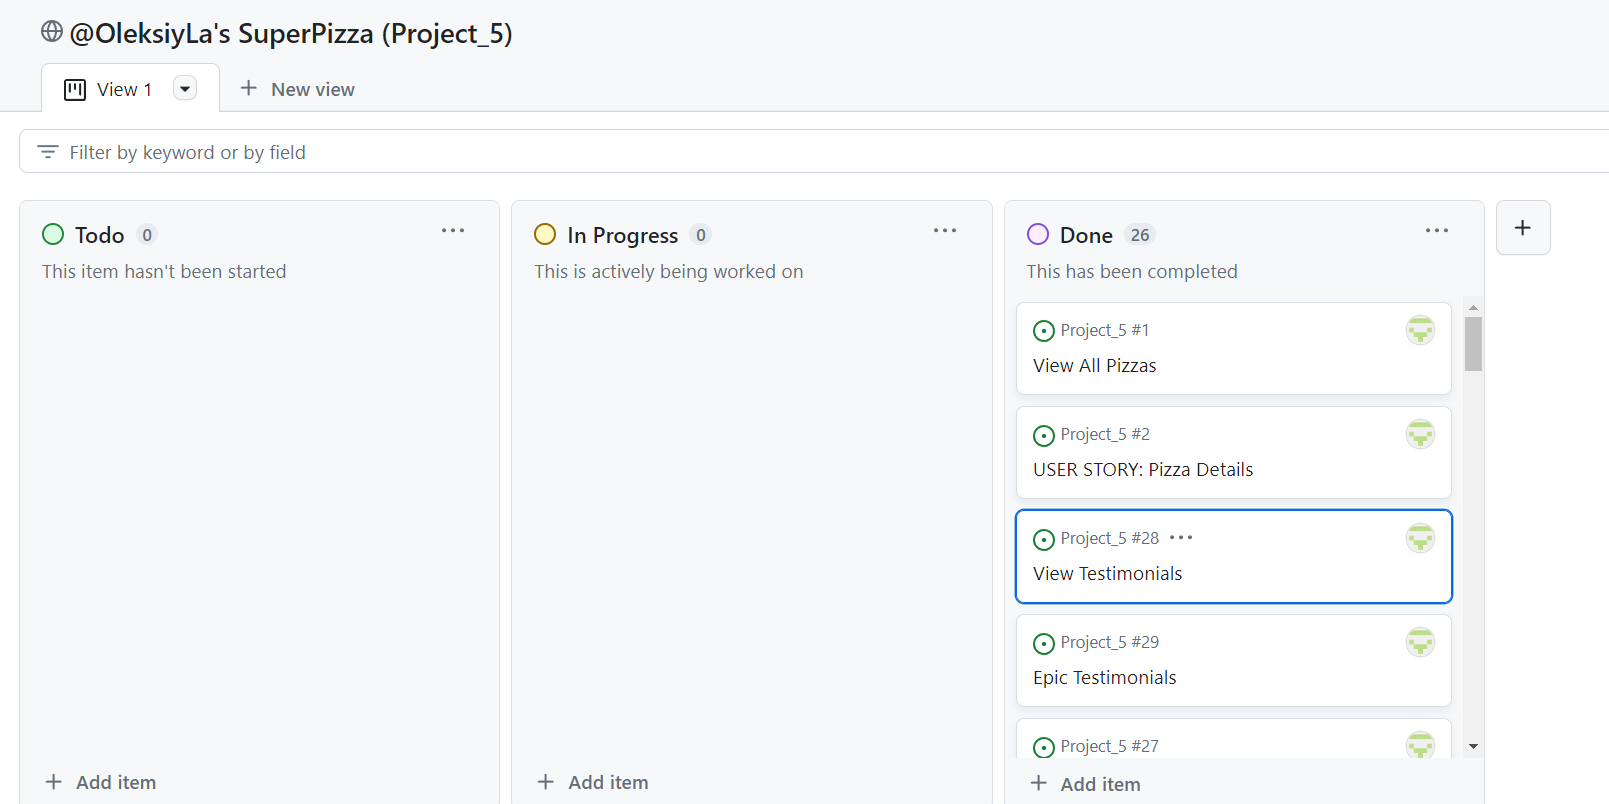
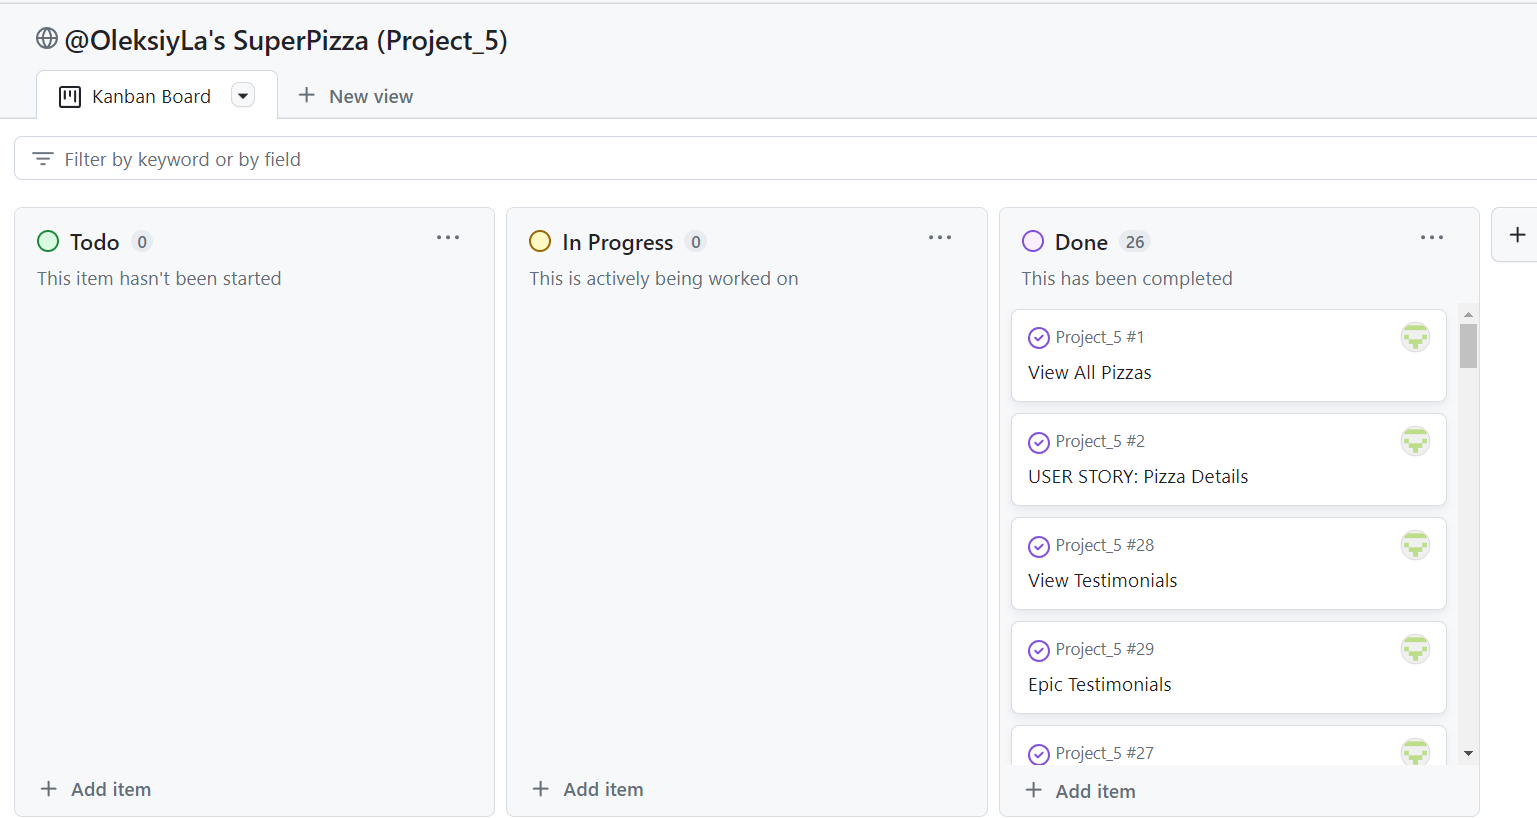
docs: update kanban board image and display admin auth images wothout dropdown

diff --git a/README.md b/README.md
@@ -546,15 +546,11 @@ A statistics page is slated for implementation, aiming to calculate average orde
   - Confirmed functionality to add pizzas, toppings, and provide testimonials from the admin profile.
   - Checked access to the admin panel through the designated navigation link.
 
-<details><summary>Admin Authorization</summary>
-
-  ![Admin](./README/tests/manual_testing/authorization/admin_nav_dropdown.png)
-  ![Admin](./README/tests/manual_testing/authorization/add_pizza.png)
-  ![Admin](./README/tests/manual_testing/authorization/approve_testimonial.png)
-  ![Admin](./README/tests/manual_testing/authorization/edit_topping_form.png)
-  ![Admin](./README/tests/manual_testing/authorization/pizza_list_admin.png)
-
-</details>
+![Admin](./README/tests/manual_testing/authorization/admin_nav_dropdown.png)
+![Admin](./README/tests/manual_testing/authorization/add_pizza.png)
+![Admin](./README/tests/manual_testing/authorization/approve_testimonial.png)
+![Admin](./README/tests/manual_testing/authorization/edit_topping_form.png)
+![Admin](./README/tests/manual_testing/authorization/pizza_list_admin.png)
 
   - Verified admin privileges within the admin panel, including editing/deleting products and testimonials.
   - Ensured that under product cards (e.g., pizzas, toppings), admins can access links to edit or delete them.
